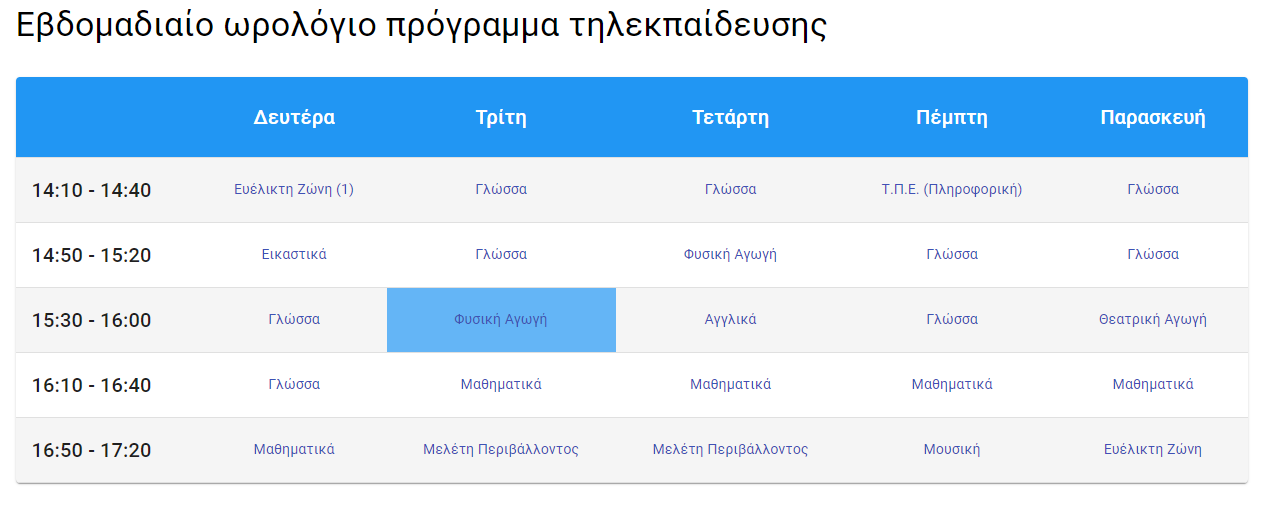
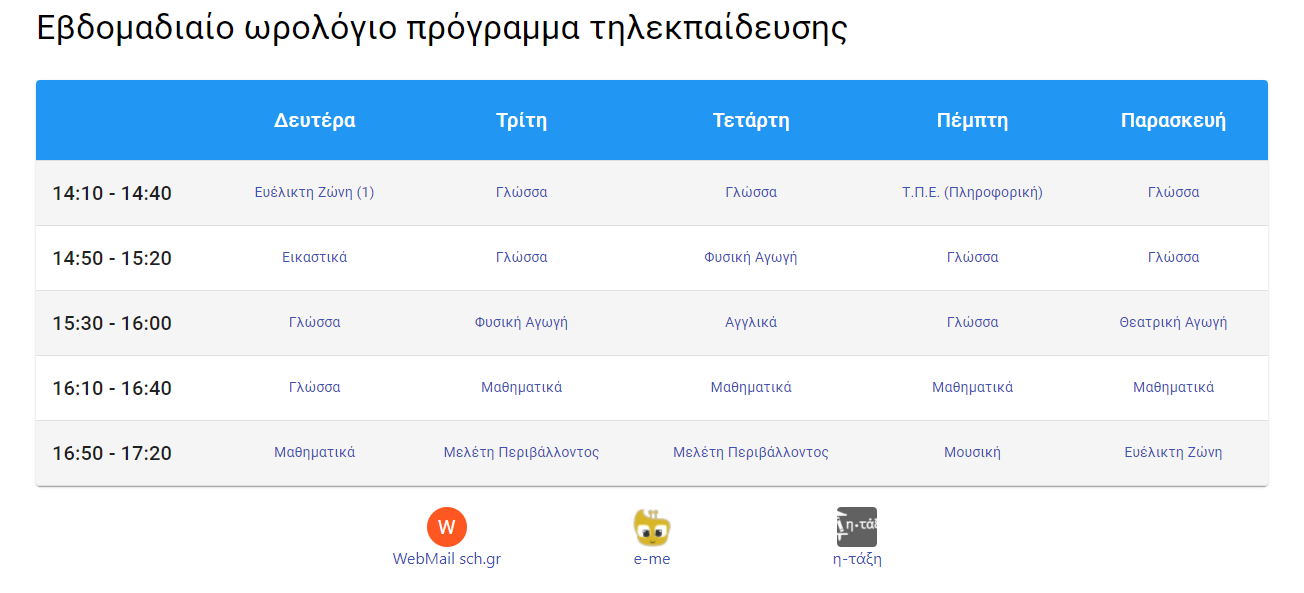
feature: Add links (#12)

diff --git a/src/Links.js b/src/Links.js
@@ -1,0 +1,82 @@
+import React from 'react';
+import { makeStyles } from '@material-ui/core/styles';
+import { useTheme } from '@material-ui/core/styles';
+import { deepOrange } from '@material-ui/core/colors';
+import Avatar from '@material-ui/core/Avatar';
+import Grid from '@material-ui/core/Grid';
+import Link from '@material-ui/core/Link';
+import classNames from 'classnames';
+
+const useStyles = makeStyles((theme) => ({
+    orange: {
+        backgroundColor: deepOrange[500],
+        color: theme.palette.getContrastText(deepOrange[500])
+    },
+    small: {
+        width: theme.spacing(3),
+        height: theme.spacing(3),
+    },
+    medium: {
+        width: theme.spacing(5),
+        height: theme.spacing(5),
+    },
+    large: {
+      width: theme.spacing(7),
+      height: theme.spacing(7),
+    },
+    center: {
+        padding: theme.spacing(2),
+        textAlign: 'center',
+    },
+}));
+
+
+function LinkAvatar(props) {
+    const classes = useStyles();
+    const theme = useTheme();
+
+    if(props.link.image) {
+        const style = props.link.bgColor ? {
+            backgroundColor: props.link.bgColor,
+            color: theme.palette.getContrastText(props.link.bgColor)
+        } : null;
+        
+        return (<Avatar alt="style" style={style} src={props.link.image} className={classes.medium} variant="rounded" />)
+    }
+    return (<Avatar className={classNames(classes.orange, classes.medium)}>{props.link.text.trim().substring(0, 1).toUpperCase()}</Avatar>)
+    
+}
+
+function LabeledIcon(props) {
+    const classes = useStyles();
+
+    return(
+        <Grid item xs={2}>
+            <Link href={props.link.href} target="_blank" rel="noopener" className={classes.center}>
+                <Grid container alignItems="center" direction="column">
+                    <Grid item>
+                        <LinkAvatar link={props.link} />
+                    </Grid>
+                    <Grid item>
+                        {props.link.text}
+                    </Grid>
+                </Grid>
+            </Link>
+        </Grid>
+    )
+}
+
+export default function Links(props) {
+    if(!props.links) {
+        return (null)
+    }
+
+    return (
+        <Grid container direction="row" justify="center" alignItems="center">
+            {
+                props.links.filter((link) => link.text && link.text.trim() && link.href && link.href.trim())
+                     .map((link, index) => <LabeledIcon link={link} key={"link-" + index} />)
+            }
+        </Grid>
+    );
+}

diff --git a/src/Links.test.js b/src/Links.test.js
@@ -1,0 +1,51 @@
+import React from "react";
+import { render } from '@testing-library/react'
+import Links from "./Links";
+
+describe('links', () => {
+  it('render when provided', () => {
+    const links = [
+      { "text": "link 1", "href": "https://example1.net" },
+      { "text": "link 2", "href": "https://example2.net", "image": "https://example.com/image.svg" },
+      { "text": "link 3", "href": "https://example3.net", "image": "https://example.com/image2.svg" },
+    ]
+    const { getByText, getAllByRole } = render(<Links links={links} />)
+    expect(getByText('link 1').closest('a')).toHaveAttribute('href', 'https://example1.net')
+    expect(getByText('link 2').closest('a')).toHaveAttribute('href', 'https://example2.net')
+    expect(getByText('link 3').closest('a')).toHaveAttribute('href', 'https://example3.net')
+
+    expect(getAllByRole('link')).toHaveLength(3)
+  });
+
+  it('skips empty text', ()=> {
+    const links = [
+      { "text": "link 1", "href": "https://example1.net" },
+      { "text": "    ", "href": "https://example2.net", "image": "https://example.com/image.svg" },
+    ]
+    const {getByText, getAllByRole } = render(<Links links={links} />)
+    expect(getByText('link 1').closest('a')).toHaveAttribute('href', 'https://example1.net')
+    expect(getAllByRole('link')).toHaveLength(1)
+  });
+
+  
+  it('skips empty href', ()=> {
+    const links = [
+      { "text": "link 1", "href": "https://example1.net" },
+      { "text": "link 2", "href": "", "image": "https://example.com/image.svg" },
+    ]
+    const {getByText, getAllByRole } = render(<Links links={links} />)
+    expect(getByText('link 1').closest('a')).toHaveAttribute('href', 'https://example1.net')
+    expect(getAllByRole('link')).toHaveLength(1)
+  });
+
+
+  it('renders without links', () => {
+    const {queryAllByRole} = render(<Links />)
+    expect(queryAllByRole('link')).toHaveLength(0)
+  });
+
+  
+})
+
+
+

diff --git a/src/App.js b/src/App.js
@@ -1,7 +1,9 @@
 import Container from '@material-ui/core/Container';
 import Typography from '@material-ui/core/Typography';
+import Grid from '@material-ui/core/Grid';
 import Box from '@material-ui/core/Box';
 import Calendar from './Calendar';
+import Links from './Links';
 import schedule from './data/schedule.json';
 
 const TIMESLOTS = [
@@ -15,12 +17,21 @@ const TIMESLOTS = [
 function App() {
   return (
     <Container maxWidth="lg">
-      <Box my={4}>
-        <Typography variant="h4" component="h1" gutterBottom>
-          Εβδομαδιαίο ωρολόγιο πρόγραμμα τηλεκπαίδευσης
-        </Typography>
-      </Box>
-      <Calendar schedule={schedule} timeslots={TIMESLOTS} />
+      <Grid container direction="column">
+        <Grid item>
+          <Box my={4}>
+            <Typography variant="h4" component="h1" gutterBottom>
+              Εβδομαδιαίο ωρολόγιο πρόγραμμα τηλεκπαίδευσης
+            </Typography>
+          </Box>
+        </Grid>
+        <Grid item>
+          <Calendar schedule={schedule} timeslots={TIMESLOTS} />
+        </Grid>
+        <Grid item>
+          <Links links={schedule.links} />
+        </Grid>
+      </Grid>
     </Container>
   );
 }

diff --git a/src/Lesson.js b/src/Lesson.js
@@ -5,7 +5,8 @@ import TableCell from '@material-ui/core/TableCell';
 
 const useStyles = makeStyles((theme) => ({
   highlighted: {
-    backgroundColor: theme.palette.info.light
+    backgroundColor: theme.palette.info.light,
+    color: theme.palette.getContrastText(theme.palette.info.light)
   }
 }));
 

diff --git a/README.md b/README.md
@@ -27,6 +27,12 @@ Edit file [src/data/schedule.json](schedule.json). The structure is simple. Ther
 
 > Links generated are in the form `https://minedu-primary.webex.com/meet/<teacher username>`. Sorry, hard-coded for now.
 
+You can also add links (if you want) at the bottom of the page. Each item in the `links` array may have the following fields:
+- **`text` (required)**: the text to appear for the link. Must be non-empty string, otherwise the link will be skipped.
+- **`href` (required)**: the target of the link. Must be non-empty string, otherwise the link will be skipped.
+- `image` (optional): an image to appear in the avatar. If not specified, the first non-empty character from `text` is used (uppercased)
+- `bgColor` (optional): sets background color for the image. Useful in case the image is transparent.
+
 ## Build the project
 
 Simply run

diff --git a/CHANGELOG.md b/CHANGELOG.md
@@ -1,0 +1,16 @@
+# 0.1.2 (2020-11-21)
+
+- [feature] Add support for links below timetable
+- [chore] Add changelog
+
+# 0.1.1 (2020-11-21)
+
+- [feature] Highlight item based on current time and day
+- [feature] Update layout to use table
+- [chore] Setup and introduce tests
+- [chore] Setup Github actions for running tests
+- [bugfix] Add missing dependencies
+
+# 0.1.0 (2020-11-17)
+
+- [feature] First version
